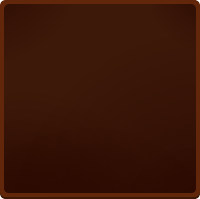
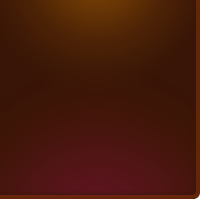
Reworked element list appearance

Changed region(s): [[0.0, 0.0, 1.0, 1.0], [0.18, 0.0, 0.75, 0.1809], [0.84, 0.0, 1.0, 0.0302]]

diff --git a/core/src/de/bitbrain/craft/ui/ElementInfoPanel.java b/core/src/de/bitbrain/craft/ui/ElementInfoPanel.java
@@ -19,13 +19,18 @@
 
 package de.bitbrain.craft.ui;
 
+import com.badlogic.gdx.Gdx;
 import com.badlogic.gdx.graphics.Color;
+import com.badlogic.gdx.graphics.Texture;
+import com.badlogic.gdx.graphics.g2d.Batch;
 import com.badlogic.gdx.scenes.scene2d.InputEvent;
 import com.badlogic.gdx.scenes.scene2d.ui.HorizontalGroup;
 import com.badlogic.gdx.scenes.scene2d.ui.Label;
 import com.badlogic.gdx.scenes.scene2d.utils.DragListener;
 import com.google.inject.Inject;
 
+import de.bitbrain.craft.Assets;
+import de.bitbrain.craft.SharedAssetManager;
 import de.bitbrain.craft.Styles;
 import de.bitbrain.craft.events.Event.EventType;
 import de.bitbrain.craft.events.EventBus;
@@ -41,8 +46,6 @@ import de.bitbrain.craft.inject.SharedInjector;
  */
 public class ElementInfoPanel extends HorizontalGroup {
 	
-	private Label amountLabel;
-	
 	private Label name;
 	
 	private RarityIcon icon;
@@ -52,22 +55,19 @@ public class ElementInfoPanel extends HorizontalGroup {
 	@Inject
 	EventBus eventBus;
 	
-	public ElementInfoPanel(ElementData data) {
+	public ElementInfoPanel(ElementData data) {		
 		SharedInjector.get().injectMembers(this);
 		this.data = data;
 		Label name = new Label(" " + data.getName(), Styles.LBL_ITEM);
 		name.setColor(data.getRarity().getColor());
-		name.setX(10f);
-		amountLabel = new Label(data.getAmount() + " ", Styles.LBL_ITEM);
-		amountLabel.setColor(Color.YELLOW);
-		RarityIcon icon = new RarityIcon(data.getIcon());
-		
-		icon.setWidth(name.getHeight() * 2);
-		icon.setHeight(name.getHeight() * 2);
-		addActor(amountLabel);
+		name.setX(30f);
+		RarityIcon icon = new RarityIcon(data);		
+		icon.setWidth(name.getHeight() * 4);
+		icon.setHeight(name.getHeight() * 4);
+		pad(10f);
 		addActor(icon);
 		addActor(name);
-		
+		fill();
 		registerEvents();
 	}
 	
@@ -76,7 +76,17 @@ public class ElementInfoPanel extends HorizontalGroup {
 		name.setText(" " + data.getName());
 		name.setColor(data.getRarity().getColor());
 		setAmount(data.getAmount());
-		icon.setSource(data.getIcon());
+		icon.setSource(data);
+	}
+	
+	/* (non-Javadoc)
+	 * @see com.badlogic.gdx.scenes.scene2d.ui.WidgetGroup#draw(com.badlogic.gdx.graphics.g2d.Batch, float)
+	 */
+	@Override
+	public void draw(Batch batch, float parentAlpha) {
+		Texture texture = SharedAssetManager.get(Assets.TEX_PANEL_ITEM, Texture.class);
+		batch.draw(texture, getX(), getY(), getWidth(), getHeight());		
+		super.draw(batch, parentAlpha);
 	}
 	
 	public ElementData getData() {
@@ -85,7 +95,6 @@ public class ElementInfoPanel extends HorizontalGroup {
 	
 	public void setAmount(int amount) {
 		data.setAmount(amount);
-		amountLabel.setText(amount + " ");
 	}
 	
 	private void registerEvents() {

diff --git a/core/src/de/bitbrain/craft/ui/RarityIcon.java b/core/src/de/bitbrain/craft/ui/RarityIcon.java
@@ -19,9 +19,16 @@
 
 package de.bitbrain.craft.ui;
 
+import com.badlogic.gdx.graphics.Color;
+import com.badlogic.gdx.graphics.Texture;
 import com.badlogic.gdx.graphics.g2d.Batch;
+import com.badlogic.gdx.graphics.g2d.Sprite;
 import com.badlogic.gdx.scenes.scene2d.Actor;
+import com.badlogic.gdx.scenes.scene2d.ui.Label;
 
+import de.bitbrain.craft.Assets;
+import de.bitbrain.craft.SharedAssetManager;
+import de.bitbrain.craft.Styles;
 import de.bitbrain.craft.core.IconManager.Icon;
 
 /**
@@ -32,30 +39,55 @@ import de.bitbrain.craft.core.IconManager.Icon;
  * @version 1.0
  */
 public class RarityIcon extends Actor {
-
-	private Icon icon;
+	
+	private static final float PADDING = 6f;
 	
 	public float iconScale;
 	
-	public RarityIcon(Icon icon) {
-		setSource(icon);
+	private ElementData data;
+	
+	private Sprite background;
+	
+	private Label amount;
+	
+	public RarityIcon(ElementData data) {
+		setSource(data);
+		amount = new Label("1", Styles.LBL_ITEM);
+		background = new Sprite(SharedAssetManager.get(Assets.TEX_ICON_BACKGROUND, Texture.class));
 	}
 	
-	public final void setSource(Icon icon) {
-		this.icon = icon;
+	public final void setSource(ElementData data) {
+		this.data = data;
 	}
 	
 	/* (non-Javadoc)
 	 * @see com.badlogic.gdx.scenes.scene2d.Actor#draw(com.badlogic.gdx.graphics.g2d.Batch, float)
 	 */
 	@Override
-	public void draw(Batch batch, float parentAlpha) {
-		icon.x =getX();
-		icon.y = getY();
-		icon.width = getWidth();
-		icon.height = getHeight();
+	public void draw(Batch batch, float parentAlpha) {		
+			
+		float iconScale = 0.8f;
+		
+		// background
+		background.setPosition(getX(), getY());
+		background.setSize(getWidth(), getHeight());
+		background.setColor(Color.RED);
+		background.draw(batch, parentAlpha);
+		
+		// Icon
+		Icon icon = data.getIcon();
+		icon.width = getWidth() * iconScale;
+		icon.height = getHeight() * iconScale;
+		icon.x = getX() + (getWidth() - icon.width) / 2;
+		icon.y = getY() + (getHeight() - icon.height) / 2;
 		icon.color = getColor();
 		icon.rotation = 180f;
 		icon.draw(batch, parentAlpha);
+		
+		// Amount
+		amount.setText(String.valueOf(data.getAmount()));
+		amount.setX(getX() + getWidth() - amount.getPrefWidth() - PADDING);
+		amount.setY(getY() + PADDING);
+		amount.draw(batch, parentAlpha);
 	}
 }

diff --git a/core/src/de/bitbrain/craft/ui/ElementInfoConnector.java b/core/src/de/bitbrain/craft/ui/ElementInfoConnector.java
@@ -25,6 +25,7 @@ import java.util.Map;
 import net.engio.mbassy.listener.Handler;
 
 import com.badlogic.gdx.Gdx;
+import com.badlogic.gdx.scenes.scene2d.Actor;
 import com.badlogic.gdx.scenes.scene2d.ui.WidgetGroup;
 import com.google.inject.Inject;
 
@@ -42,11 +43,15 @@ import de.bitbrain.craft.models.Recipe;
  */
 public class ElementInfoConnector {
 	
+	private final static float SPACING = 10f;
+	
 	private final WidgetGroup group;
 	
 	private final Class<?> elementClass;
 	
 	private final Map<String, ElementInfoPanel> elements;
+	
+	private final Map<String, Actor> spacings;
 	
 	private final Map<String, ElementData> dataMap;
 	
@@ -59,6 +64,7 @@ public class ElementInfoConnector {
 		this.elementClass = elementClass;
 		elements = new HashMap<String, ElementInfoPanel>();
 		dataMap = new HashMap<String, ElementData>();
+		spacings = new HashMap<String, Actor>();
 		eventBus.subscribe(this);
 	}
 	
@@ -87,6 +93,18 @@ public class ElementInfoConnector {
 		group.clear();
 	}
 	
+	private Actor addSpacing(String id) {
+		Actor spacing = new Actor();
+		spacing.setWidth(group.getWidth());
+		spacing.setHeight(SPACING);
+		spacings.put(id, spacing);
+		return spacing;
+	}
+	
+	private Actor removeSpacing(String id) {
+		return spacings.remove(id);
+	}
+	
 	private void removeElements(String id, Object model, int amount) {
 
 		ElementData data = dataMap.get(id);
@@ -94,6 +112,7 @@ public class ElementInfoConnector {
 			int newAmount = data.getAmount() - amount;
 			if (newAmount < 1) {
 				group.removeActor(elements.get(id));
+				group.removeActor(removeSpacing(id));
 				elements.remove(id);
 				dataMap.remove(id);
 			} else {
@@ -119,6 +138,8 @@ public class ElementInfoConnector {
 		if (!elements.containsKey(id)) {
 			ElementInfoPanel panel = new ElementInfoPanel(data);
 			elements.put(id, panel);
+
+			group.addActor(addSpacing(id));
 			group.addActor(panel);
 			Gdx.app.log("INFO", "Attached element with id='" + id + "' to " + group);
 		} else {

diff --git a/core/src/de/bitbrain/craft/db/PlayerMapper.java b/core/src/de/bitbrain/craft/db/PlayerMapper.java
@@ -3,12 +3,12 @@ package de.bitbrain.craft.db;
 import java.util.Collection;
 
 import de.bitbrain.craft.models.Player;
-import de.myreality.jpersis.annotations.Count;
-import de.myreality.jpersis.annotations.DataMapper;
-import de.myreality.jpersis.annotations.Delete;
-import de.myreality.jpersis.annotations.Insert;
-import de.myreality.jpersis.annotations.Select;
-import de.myreality.jpersis.annotations.Update;
+import de.bitbrain.jpersis.annotations.Count;
+import de.bitbrain.jpersis.annotations.DataMapper;
+import de.bitbrain.jpersis.annotations.Delete;
+import de.bitbrain.jpersis.annotations.Insert;
+import de.bitbrain.jpersis.annotations.Select;
+import de.bitbrain.jpersis.annotations.Update;
 
 @DataMapper(
 		model = "de.bitbrain.craft.models.Player", 

diff --git a/core/src/de/bitbrain/craft/db/RecipeMapper.java b/core/src/de/bitbrain/craft/db/RecipeMapper.java
@@ -3,12 +3,12 @@ package de.bitbrain.craft.db;
 import java.util.Collection;
 
 import de.bitbrain.craft.models.Recipe;
-import de.myreality.jpersis.annotations.Count;
-import de.myreality.jpersis.annotations.DataMapper;
-import de.myreality.jpersis.annotations.Delete;
-import de.myreality.jpersis.annotations.Insert;
-import de.myreality.jpersis.annotations.Select;
-import de.myreality.jpersis.annotations.Update;
+import de.bitbrain.jpersis.annotations.Count;
+import de.bitbrain.jpersis.annotations.DataMapper;
+import de.bitbrain.jpersis.annotations.Delete;
+import de.bitbrain.jpersis.annotations.Insert;
+import de.bitbrain.jpersis.annotations.Select;
+import de.bitbrain.jpersis.annotations.Update;
 
 @DataMapper(
 		model = "de.bitbrain.craft.models.Recipe", 

diff --git a/core/src/de/bitbrain/craft/db/ItemMapper.java b/core/src/de/bitbrain/craft/db/ItemMapper.java
@@ -3,12 +3,12 @@ package de.bitbrain.craft.db;
 import java.util.Collection;
 
 import de.bitbrain.craft.models.Item;
-import de.myreality.jpersis.annotations.Count;
-import de.myreality.jpersis.annotations.DataMapper;
-import de.myreality.jpersis.annotations.Delete;
-import de.myreality.jpersis.annotations.Insert;
-import de.myreality.jpersis.annotations.Select;
-import de.myreality.jpersis.annotations.Update;
+import de.bitbrain.jpersis.annotations.Count;
+import de.bitbrain.jpersis.annotations.DataMapper;
+import de.bitbrain.jpersis.annotations.Delete;
+import de.bitbrain.jpersis.annotations.Insert;
+import de.bitbrain.jpersis.annotations.Select;
+import de.bitbrain.jpersis.annotations.Update;
 
 @DataMapper(
 		model = "de.bitbrain.craft.models.Item", 

diff --git a/core/src/de/bitbrain/craft/screens/IngameScreen.java b/core/src/de/bitbrain/craft/screens/IngameScreen.java
@@ -98,9 +98,7 @@ public class IngameScreen extends AbstractScreen {
 		boolean init = inputProcessor == null;
 		super.resize(width, height);
 		tabPanel.setWidth(width / 2.3f);
-		tabPanel.setHeight(height / 1.2f);
-		tabPanel.padLeft(width / 10f);
-		tabPanel.padBottom(height / 7f);
+		tabPanel.setHeight(height);
 		
 		professionView.setWidth(width - tabPanel.getWidth() / 0.82f);
 		professionView.setHeight(tabPanel.getHeight());
@@ -179,7 +177,7 @@ public class IngameScreen extends AbstractScreen {
 	private Actor generateItemView() {
 		
 		VerticalGroup itemView = new VerticalGroup();
-		itemView.align(Align.left);
+		itemView.align(Align.left).fill();
 		
 		// Add data connector
 		itemConnector = new ElementInfoConnector(itemView, Item.class);

diff --git a/core/src/de/bitbrain/craft/db/ProgressMapper.java b/core/src/de/bitbrain/craft/db/ProgressMapper.java
@@ -4,11 +4,11 @@ import java.util.Collection;
 
 import de.bitbrain.craft.models.Item;
 import de.bitbrain.craft.models.Progress;
-import de.myreality.jpersis.annotations.DataMapper;
-import de.myreality.jpersis.annotations.Delete;
-import de.myreality.jpersis.annotations.Insert;
-import de.myreality.jpersis.annotations.Select;
-import de.myreality.jpersis.annotations.Update;
+import de.bitbrain.jpersis.annotations.DataMapper;
+import de.bitbrain.jpersis.annotations.Delete;
+import de.bitbrain.jpersis.annotations.Insert;
+import de.bitbrain.jpersis.annotations.Select;
+import de.bitbrain.jpersis.annotations.Update;
 
 @DataMapper(
 		model = "de.bitbrain.craft.models.Progress", 

diff --git a/core/src/de/bitbrain/craft/db/OwnedItemMapper.java b/core/src/de/bitbrain/craft/db/OwnedItemMapper.java
@@ -3,11 +3,11 @@ package de.bitbrain.craft.db;
 import java.util.Collection;
 
 import de.bitbrain.craft.models.OwnedItem;
-import de.myreality.jpersis.annotations.DataMapper;
-import de.myreality.jpersis.annotations.Delete;
-import de.myreality.jpersis.annotations.Insert;
-import de.myreality.jpersis.annotations.Select;
-import de.myreality.jpersis.annotations.Update;
+import de.bitbrain.jpersis.annotations.DataMapper;
+import de.bitbrain.jpersis.annotations.Delete;
+import de.bitbrain.jpersis.annotations.Insert;
+import de.bitbrain.jpersis.annotations.Select;
+import de.bitbrain.jpersis.annotations.Update;
 
 @DataMapper(
 		model = "de.bitbrain.craft.models.OwnedItem", 

diff --git a/core/src/de/bitbrain/craft/ui/TabPanel.java b/core/src/de/bitbrain/craft/ui/TabPanel.java
@@ -256,9 +256,9 @@ public class TabPanel extends Table {
 			});
 			
 			for (Cell<?> c : cells.values()) {
-				c.width((parentPanel.getWidth() / 1.2f) / cells.size());
-				c.padRight(4f);
-				c.padLeft(4f);
+				c.width((parentPanel.getWidth()) / cells.size());
+				c.padRight(2f);
+				c.padLeft(2f);
 				c.height(parentPanel.getHeight() - (parentPanel.getHeight() / HEIGHT_DIV));
 			}
 		}
@@ -275,7 +275,6 @@ public class TabPanel extends Table {
 			}
 			active = tab;
 			active.setStyle(activeStyles.get(active));
-			cells.get(active).padBottom(Gdx.graphics.getHeight() / 21.2f);
 		}
 		
 		private ImageButtonStyle generateStyle(String iconId, boolean active) {

diff --git a/core/src/de/bitbrain/craft/core/SimpleAPI.java b/core/src/de/bitbrain/craft/core/SimpleAPI.java
@@ -33,7 +33,7 @@ import de.bitbrain.craft.inject.SharedInjector;
 import de.bitbrain.craft.models.Item;
 import de.bitbrain.craft.models.OwnedItem;
 import de.bitbrain.craft.models.Player;
-import de.myreality.jpersis.MapperManager;
+import de.bitbrain.jpersis.MapperManager;
 
 /**
  * General API interface
@@ -154,8 +154,9 @@ class SimpleAPI implements API {
 			Item item = itemMapper.findById(id);
 			try {
 			if (count > 0) {
+				ownedItemMapper.delete(owned);
 				owned.setAmount(count);
-				ownedItemMapper.update(owned);
+				ownedItemMapper.insert(owned);
 			} else {
 				ownedItemMapper.delete(owned);
 			}

diff --git a/core/src/de/bitbrain/craft/Assets.java b/core/src/de/bitbrain/craft/Assets.java
@@ -91,6 +91,9 @@ public final class Assets {
 	public static final String TEX_PANEL_MEDIUM_BOX 	= DIR_IMAGES + "panel_medium_box.png";
 	public static final String TEX_PANEL_TAB			 	= DIR_IMAGES + "panel_tab.png";
 	public static final String TEX_PANEL_TAB_ACTIVE		= DIR_IMAGES + "panel_tab_active.png";
+	public static final String TEX_PANEL_ITEM			= DIR_IMAGES + "item_background.png";
+	public static final String TEX_ICON_BACKGROUND   	= DIR_IMAGES + "icon_background.png";
+	
 	// ---------- COLORS ----------
 	
 	public static final Color CLR_GREEN_GRASS 			= Color.valueOf("b8d41c");
